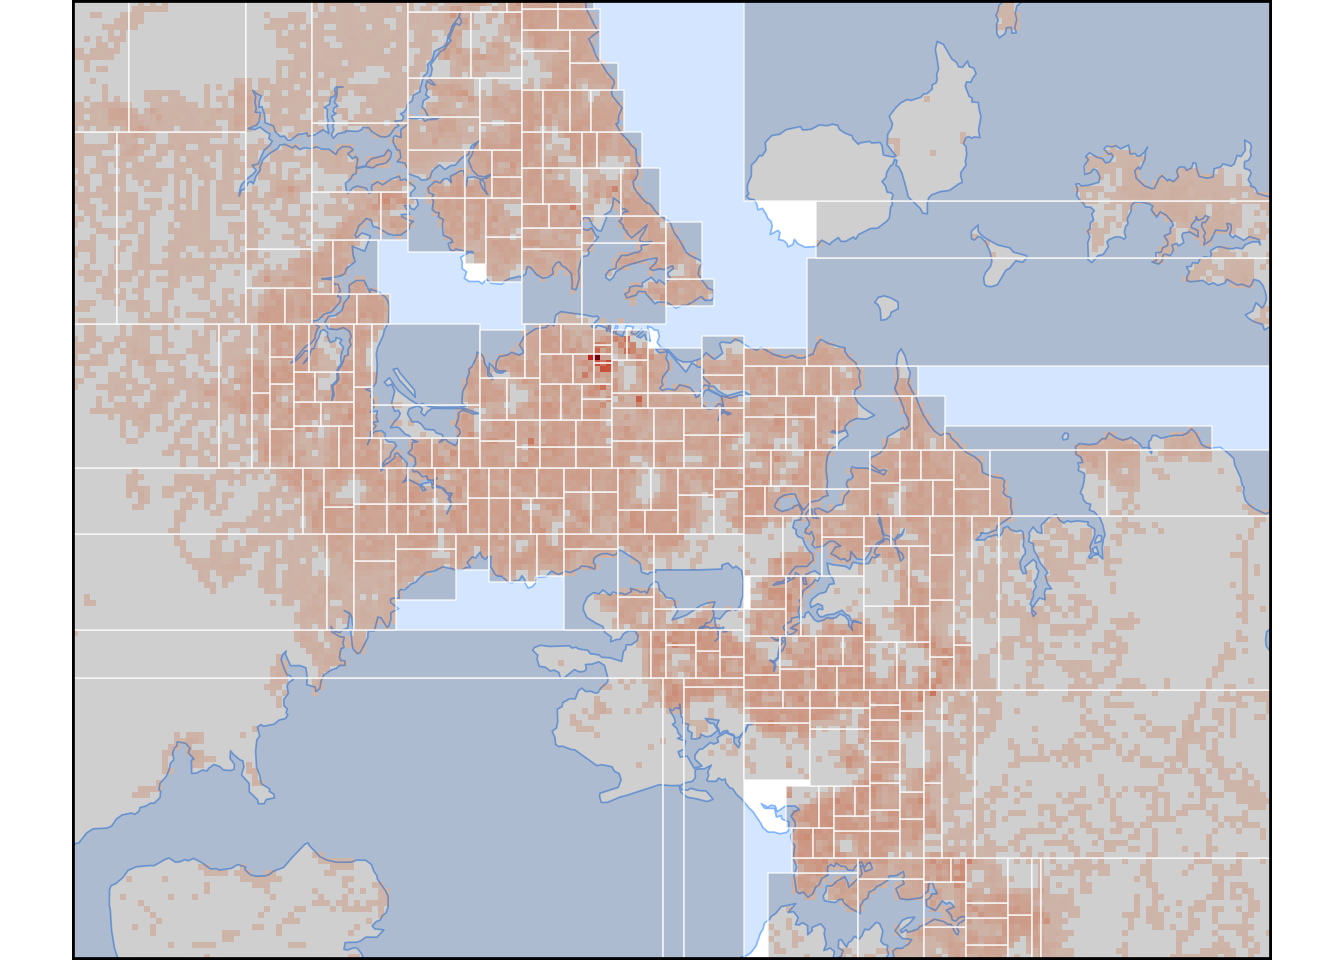
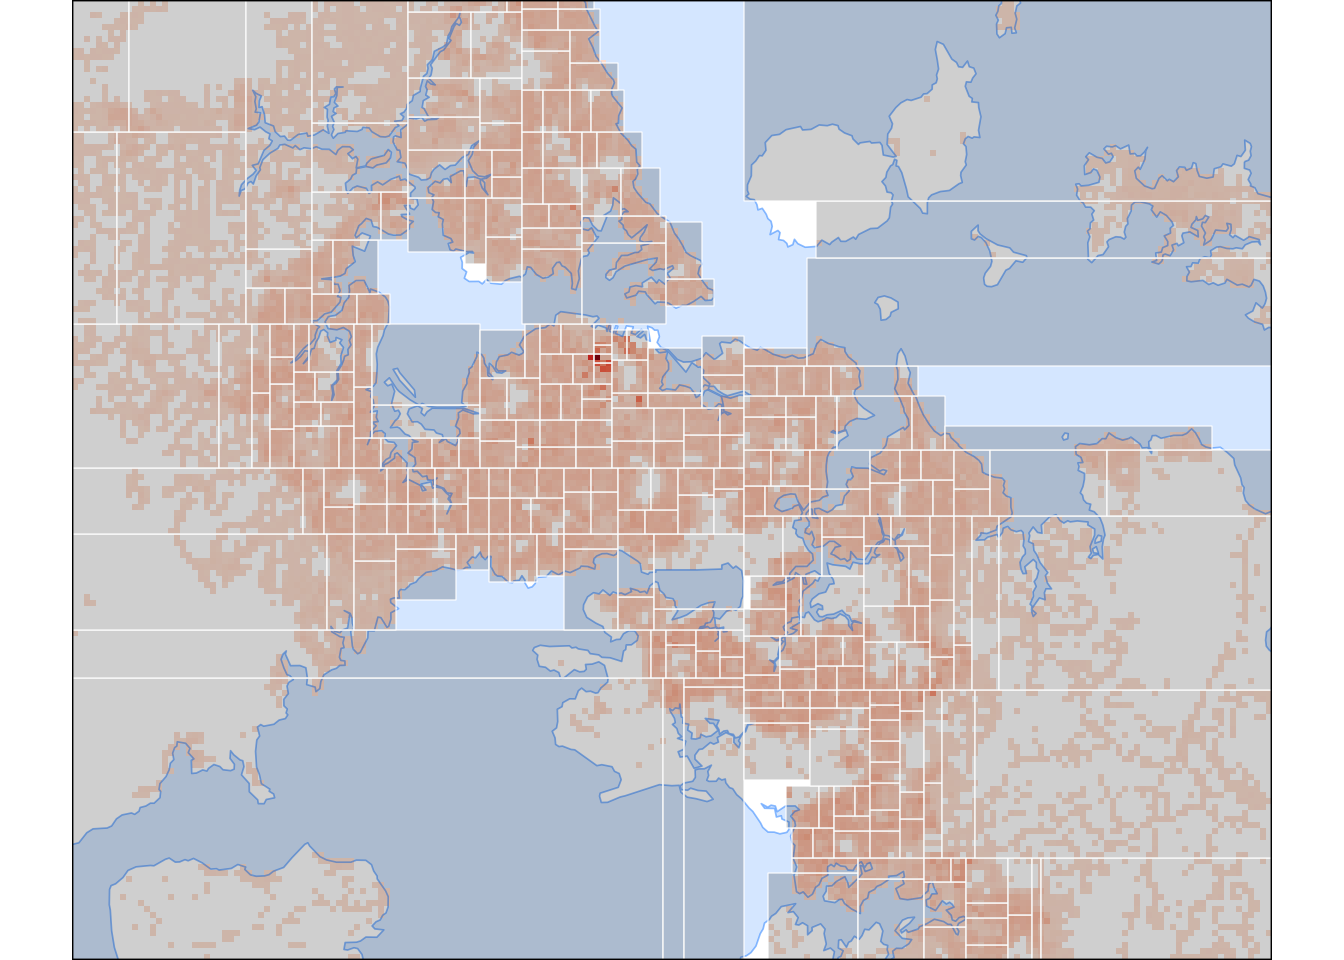
added chch map

diff --git a/docs/posts/2025-06-20-population-binary-space-partition/index.html b/docs/posts/2025-06-20-population-binary-space-partition/index.html
@@ -285,6 +285,17 @@ pre > code.sourceCode > span > a:first-child::before { text-decoration: underlin
 <p>The thought was something like, bisect the population data (by population), then bisect each half, then bisect each quarter and so on. The bisection procedure using weighted medians was thoroughly explored in the earlier post.</p>
 <p>Now, as promised, here’s that iterative bisection process, which yields something like a population quadtree. Each leaf of the tree accounts for some power-of-two fraction of the population (in the example below 1/1024th). If we had the location of every individual in the data as a point, the result is roughly what we would get if we were adding those points to a <a href="https://en.wikipedia.org/wiki/Binary_space_partitioning">binary space partition</a> data structure.</p>
 <p>It would be nice to do this as a quad-tree where at each step we subdivide the population into 4 more or less equal groups, but that would require allowing the lines subdividing the space to be at arbitrary angles at each step and would demand much more complicated coding than what follows. Sticking to halving the population at each step means we can work with only east-west or north-south bisectors and simplifies matters greatly. I’ll set the more complicated quad-tree approach to one side for now.</p>
+<p>As an indication of where we are going, here’s the end result, showing approximately equal population rectangular areas around Christchurch.</p>
+<div id="fig-christchurch-zoomed-in" class="quarto-float quarto-figure quarto-figure-center anchored" data-group="maps">
+<figure class="quarto-float quarto-float-fig figure">
+<div aria-describedby="fig-christchurch-zoomed-in-caption-0ceaefa1-69ba-4598-a22c-09a6ac19f8ca">
+<a href="chch-closeup.png" class="lightbox" data-gallery="maps" title="Figure&nbsp;1: A zoomed in map of the Christchurch area."><img src="chch-closeup.png" class="img-fluid figure-img"></a>
+</div>
+<figcaption class="quarto-float-caption-bottom quarto-float-caption quarto-float-fig" id="fig-christchurch-zoomed-in-caption-0ceaefa1-69ba-4598-a22c-09a6ac19f8ca">
+Figure&nbsp;1: A zoomed in map of the Christchurch area.
+</figcaption>
+</figure>
+</div>
 <section id="preliminaries" class="level2">
 <h2 class="anchored" data-anchor-id="preliminaries">Preliminaries</h2>
 <p>As usual, we need some libraries and data.</p>
@@ -484,10 +495,10 @@ pre > code.sourceCode > span > a:first-child::before { text-decoration: underlin
 <div id="fig-final-layer" class="quarto-float quarto-figure quarto-figure-center anchored">
 <figure class="quarto-float quarto-float-fig figure">
 <div aria-describedby="fig-final-layer-caption-0ceaefa1-69ba-4598-a22c-09a6ac19f8ca">
-<a href="index_files/figure-html/fig-final-layer-1.png" class="lightbox" data-gallery="maps" title="Figure&nbsp;1: All 1024 cells at level 11 of the partition."><img src="index_files/figure-html/fig-final-layer-1.png" class="img-fluid figure-img" width="672"></a>
+<a href="index_files/figure-html/fig-final-layer-1.png" class="lightbox" data-gallery="maps" title="Figure&nbsp;2: All 1024 cells at level 11 of the partition."><img src="index_files/figure-html/fig-final-layer-1.png" class="img-fluid figure-img" width="672"></a>
 </div>
 <figcaption class="quarto-float-caption-bottom quarto-float-caption quarto-float-fig" id="fig-final-layer-caption-0ceaefa1-69ba-4598-a22c-09a6ac19f8ca">
-Figure&nbsp;1: All 1024 cells at level 11 of the partition.
+Figure&nbsp;2: All 1024 cells at level 11 of the partition.
 </figcaption>
 </figure>
 </div>
@@ -508,10 +519,10 @@ Figure&nbsp;1: All 1024 cells at level 11 of the partition.
 <div id="fig-all-layers" class="quarto-float quarto-figure quarto-figure-center anchored">
 <figure class="quarto-float quarto-float-fig figure">
 <div aria-describedby="fig-all-layers-caption-0ceaefa1-69ba-4598-a22c-09a6ac19f8ca">
-<a href="index_files/figure-html/fig-all-layers-1.png" class="lightbox" data-gallery="maps" title="Figure&nbsp;2: The sequence of bisections along the way to 1024 rectangles."><img src="index_files/figure-html/fig-all-layers-1.png" class="img-fluid figure-img" width="672"></a>
+<a href="index_files/figure-html/fig-all-layers-1.png" class="lightbox" data-gallery="maps" title="Figure&nbsp;3: The sequence of bisections along the way to 1024 rectangles."><img src="index_files/figure-html/fig-all-layers-1.png" class="img-fluid figure-img" width="672"></a>
 </div>
 <figcaption class="quarto-float-caption-bottom quarto-float-caption quarto-float-fig" id="fig-all-layers-caption-0ceaefa1-69ba-4598-a22c-09a6ac19f8ca">
-Figure&nbsp;2: The sequence of bisections along the way to 1024 rectangles.
+Figure&nbsp;3: The sequence of bisections along the way to 1024 rectangles.
 </figcaption>
 </figure>
 </div>
@@ -526,27 +537,25 @@ Figure&nbsp;2: The sequence of bisections along the way to 1024 rectangles.
 <div class="sourceCode cell-code" id="cb3"><pre class="sourceCode r code-with-copy"><code class="sourceCode r"><span id="cb3-1"><a href="#cb3-1" aria-hidden="true" tabindex="-1"></a>bb <span class="ot">&lt;-</span> <span class="fu">c</span>(<span class="fl">1.735e6</span>, <span class="fl">5.895e6</span>, <span class="fl">1.785e6</span>, <span class="fl">5.935e6</span>)</span>
 <span id="cb3-2"><a href="#cb3-2" aria-hidden="true" tabindex="-1"></a><span class="fu">ggplot</span>() <span class="sc">+</span></span>
 <span id="cb3-3"><a href="#cb3-3" aria-hidden="true" tabindex="-1"></a>  <span class="fu">geom_sf</span>(<span class="at">data =</span> nz, <span class="at">fill =</span> <span class="st">"white"</span>, <span class="at">lwd =</span> <span class="dv">0</span>) <span class="sc">+</span> </span>
-<span id="cb3-4"><a href="#cb3-4" aria-hidden="true" tabindex="-1"></a>  <span class="fu">geom_tile</span>(<span class="at">data =</span> pop <span class="sc">|&gt;</span> <span class="fu">filter</span>(x <span class="sc">&gt;=</span> bb[<span class="dv">1</span>], x <span class="sc">&lt;=</span> bb[<span class="dv">3</span>], </span>
-<span id="cb3-5"><a href="#cb3-5" aria-hidden="true" tabindex="-1"></a>                                 y <span class="sc">&gt;=</span> bb[<span class="dv">2</span>], y <span class="sc">&lt;=</span> bb[<span class="dv">4</span>]), </span>
-<span id="cb3-6"><a href="#cb3-6" aria-hidden="true" tabindex="-1"></a>            <span class="fu">aes</span>(<span class="at">x =</span> x, <span class="at">y =</span> y, <span class="at">fill =</span> pop_250m_grid)) <span class="sc">+</span></span>
-<span id="cb3-7"><a href="#cb3-7" aria-hidden="true" tabindex="-1"></a>  <span class="fu">scale_fill_distiller</span>(<span class="at">palette =</span> <span class="st">"Reds"</span>, <span class="at">direction =</span> <span class="dv">1</span>) <span class="sc">+</span></span>
-<span id="cb3-8"><a href="#cb3-8" aria-hidden="true" tabindex="-1"></a>  <span class="fu">geom_sf</span>(<span class="at">data =</span> nz, <span class="at">fill =</span> <span class="cn">NA</span>, <span class="at">colour =</span> <span class="st">"#1e90ff80"</span>, <span class="at">lwd =</span> <span class="fl">0.3</span>) <span class="sc">+</span> </span>
-<span id="cb3-9"><a href="#cb3-9" aria-hidden="true" tabindex="-1"></a>  <span class="fu">geom_sf</span>(<span class="at">data =</span> all_levels <span class="sc">|&gt;</span> <span class="fu">filter</span>(level <span class="sc">==</span> <span class="dv">11</span>), </span>
-<span id="cb3-10"><a href="#cb3-10" aria-hidden="true" tabindex="-1"></a>          <span class="at">fill =</span> <span class="st">"#00000030"</span>, <span class="at">colour =</span> <span class="st">"white"</span>, <span class="at">lwd =</span> <span class="fl">0.2</span>) <span class="sc">+</span></span>
-<span id="cb3-11"><a href="#cb3-11" aria-hidden="true" tabindex="-1"></a>  <span class="fu">coord_sf</span>(<span class="at">xlim =</span> bb[<span class="fu">c</span>(<span class="dv">1</span>,<span class="dv">3</span>)], <span class="at">ylim =</span> bb[<span class="fu">c</span>(<span class="dv">2</span>,<span class="dv">4</span>)], <span class="at">expand =</span> <span class="cn">FALSE</span>) <span class="sc">+</span></span>
-<span id="cb3-12"><a href="#cb3-12" aria-hidden="true" tabindex="-1"></a>  <span class="fu">guides</span>(<span class="at">fill =</span> <span class="st">"none"</span>) <span class="sc">+</span></span>
-<span id="cb3-13"><a href="#cb3-13" aria-hidden="true" tabindex="-1"></a>  <span class="fu">theme_void</span>() <span class="sc">+</span></span>
-<span id="cb3-14"><a href="#cb3-14" aria-hidden="true" tabindex="-1"></a>  <span class="fu">theme</span>(<span class="at">panel.border =</span> <span class="fu">element_rect</span>(<span class="at">fill =</span> <span class="cn">NA</span>, <span class="at">linewidth =</span> <span class="dv">1</span>), </span>
-<span id="cb3-15"><a href="#cb3-15" aria-hidden="true" tabindex="-1"></a>        <span class="at">panel.background =</span> <span class="fu">element_rect</span>(<span class="at">fill =</span> <span class="st">"#1e90ff30"</span>))</span></code><button title="Copy to Clipboard" class="code-copy-button"><i class="bi"></i></button></pre></div>
+<span id="cb3-4"><a href="#cb3-4" aria-hidden="true" tabindex="-1"></a>  <span class="fu">geom_tile</span>(<span class="at">data =</span> pop, <span class="fu">aes</span>(<span class="at">x =</span> x, <span class="at">y =</span> y, <span class="at">fill =</span> pop_250m_grid)) <span class="sc">+</span></span>
+<span id="cb3-5"><a href="#cb3-5" aria-hidden="true" tabindex="-1"></a>  <span class="fu">scale_fill_distiller</span>(<span class="at">palette =</span> <span class="st">"Reds"</span>, <span class="at">direction =</span> <span class="dv">1</span>) <span class="sc">+</span></span>
+<span id="cb3-6"><a href="#cb3-6" aria-hidden="true" tabindex="-1"></a>  <span class="fu">geom_sf</span>(<span class="at">data =</span> nz, <span class="at">fill =</span> <span class="cn">NA</span>, <span class="at">colour =</span> <span class="st">"#1e90ff80"</span>, <span class="at">lwd =</span> <span class="fl">0.3</span>) <span class="sc">+</span> </span>
+<span id="cb3-7"><a href="#cb3-7" aria-hidden="true" tabindex="-1"></a>  <span class="fu">geom_sf</span>(<span class="at">data =</span> all_levels <span class="sc">|&gt;</span> <span class="fu">filter</span>(level <span class="sc">==</span> <span class="dv">11</span>), </span>
+<span id="cb3-8"><a href="#cb3-8" aria-hidden="true" tabindex="-1"></a>          <span class="at">fill =</span> <span class="st">"#00000030"</span>, <span class="at">colour =</span> <span class="st">"white"</span>, <span class="at">lwd =</span> <span class="fl">0.2</span>) <span class="sc">+</span></span>
+<span id="cb3-9"><a href="#cb3-9" aria-hidden="true" tabindex="-1"></a>  <span class="fu">coord_sf</span>(<span class="at">xlim =</span> bb[<span class="fu">c</span>(<span class="dv">1</span>,<span class="dv">3</span>)], <span class="at">ylim =</span> bb[<span class="fu">c</span>(<span class="dv">2</span>,<span class="dv">4</span>)], <span class="at">expand =</span> <span class="cn">FALSE</span>) <span class="sc">+</span></span>
+<span id="cb3-10"><a href="#cb3-10" aria-hidden="true" tabindex="-1"></a>  <span class="fu">guides</span>(<span class="at">fill =</span> <span class="st">"none"</span>) <span class="sc">+</span></span>
+<span id="cb3-11"><a href="#cb3-11" aria-hidden="true" tabindex="-1"></a>  <span class="fu">theme_void</span>() <span class="sc">+</span></span>
+<span id="cb3-12"><a href="#cb3-12" aria-hidden="true" tabindex="-1"></a>  <span class="fu">theme</span>(<span class="at">panel.border =</span> <span class="fu">element_rect</span>(<span class="at">fill =</span> <span class="cn">NA</span>, <span class="at">linewidth =</span> <span class="fl">0.5</span>), </span>
+<span id="cb3-13"><a href="#cb3-13" aria-hidden="true" tabindex="-1"></a>        <span class="at">panel.background =</span> <span class="fu">element_rect</span>(<span class="at">fill =</span> <span class="st">"#1e90ff30"</span>))</span></code><button title="Copy to Clipboard" class="code-copy-button"><i class="bi"></i></button></pre></div>
 </details>
 <div class="cell-output-display">
 <div id="fig-close-up-auckland" class="quarto-float quarto-figure quarto-figure-center anchored">
 <figure class="quarto-float quarto-float-fig figure">
 <div aria-describedby="fig-close-up-auckland-caption-0ceaefa1-69ba-4598-a22c-09a6ac19f8ca">
-<a href="index_files/figure-html/fig-close-up-auckland-1.png" class="lightbox" data-gallery="maps" title="Figure&nbsp;3: A zoomed in view around Auckland of the final layer of the partition."><img src="index_files/figure-html/fig-close-up-auckland-1.png" class="img-fluid figure-img" width="672"></a>
+<a href="index_files/figure-html/fig-close-up-auckland-1.png" class="lightbox" data-gallery="maps" title="Figure&nbsp;4: A zoomed in view around Auckland of the final layer of the partition."><img src="index_files/figure-html/fig-close-up-auckland-1.png" class="img-fluid figure-img" width="672"></a>
 </div>
 <figcaption class="quarto-float-caption-bottom quarto-float-caption quarto-float-fig" id="fig-close-up-auckland-caption-0ceaefa1-69ba-4598-a22c-09a6ac19f8ca">
-Figure&nbsp;3: A zoomed in view around Auckland of the final layer of the partition.
+Figure&nbsp;4: A zoomed in view around Auckland of the final layer of the partition.
 </figcaption>
 </figure>
 </div>

diff --git a/docs/blog.html b/docs/blog.html
@@ -260,10 +260,10 @@ window.Quarto = {
 
 <div class="quarto-listing quarto-listing-container-default" id="listing-listing">
 <div class="list quarto-listing-default">
[2 lines of base64/hex data omitted]
 <div class="thumbnail">
 <p><a href="./posts/2025-06-20-population-binary-space-partition/index.html" class="no-external"></a></p><a href="./posts/2025-06-20-population-binary-space-partition/index.html" class="no-external">
-<p><img loading="lazy" src="./posts/2025-06-20-population-binary-space-partition/auckland-closeup.png" class="thumbnail-image"></p>
+<p class="card-img-top"><img src="posts/2025-06-20-population-binary-space-partition/chch-closeup.png"  class="thumbnail-image card-img"/></p>
 </a><p><a href="./posts/2025-06-20-population-binary-space-partition/index.html" class="no-external"></a></p>
 </div>
 <div class="body">
